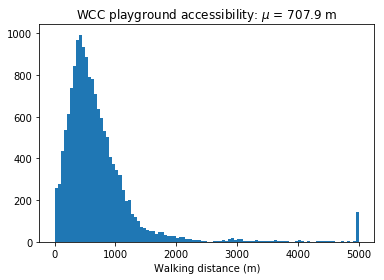
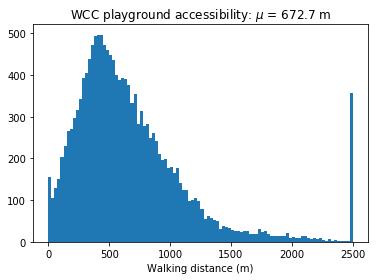
Adding more figures to clarify key steps in methdology.

diff --git a/_posts/2019-02-19-Impact-of-hills-on-walking-to-playgrounds-in-Wellington.md b/_posts/2019-02-19-Impact-of-hills-on-walking-to-playgrounds-in-Wellington.md
@@ -15,7 +15,7 @@ To do this analysis, we need to overcome some technical aspects:
 
 ## Datasets
 
-There are 3 key datasets used in this analysis:
+Three key datasets are used in this analysis:
 - *WCC playground locations*: downloaded as a zip file
 - *Suburb boundaries for Wellington*
     - StatsNZ 2013 Statistical Area 2 boundaries: downloaded as a geodatabase (gdb)
@@ -36,16 +36,15 @@ Getting the Wellington street network in a form suitable for accessibility analy
 
 The _pandana_ network above has edge weights in the default units of metres, which means that the accessibility analyses will also be in metres. We can post-hoc convert the distance units to travel time with an average walking speed of 5 km/h or, 83 m/minute if we want travel time in minutes.
 
-*Changes needed*
-- Convert 5000m threshold
-- Histogram of travel times?
-
 |Accessibility as distance | Accessibility as travel time |
 |---|---|
-|![png](../images/2019-02-19-Impact-of-hills-on-walking-to-playgrounds-in-Wellington/output_19_0.png)|![png](../images/2019-02-19-Impact-of-hills-on-walking-to-playgrounds-in-Wellington/output_34_0.png)|
+|![png](../images/2019-02-19-Impact-of-hills-on-walking-to-playgrounds-in-Wellington/output_48_0.png)|![png](../images/2019-02-19-Impact-of-hills-on-walking-to-playgrounds-in-Wellington/output_34_0.png)|
 
+The accessibility data can be extracted and plotted as a histogram. Here, we see that the average distance to a playground is 700 m, or an 8 minute walk.
 
-![png](../images/2019-02-19-Impact-of-hills-on-walking-to-playgrounds-in-Wellington/output_20_0.png)
+| Distance distribution | Time distribution |
+|---|---|
+|![png](../images/2019-02-19-Impact-of-hills-on-walking-to-playgrounds-in-Wellington/output_20_0.png)| ![png](../images/2019-02-19-Impact-of-hills-on-walking-to-playgrounds-in-Wellington/output_49_0.png)|
 
 ## Wellington street network: with elevation
 Elevation information can be retrieved with the Google Elevation API to enrich both the nodes and edges of the network. For the nodes, we can just get the elevation at a single location. Elevation at the connecting nodes of an edge can be used to derive the _inclination_.
@@ -94,7 +93,7 @@ Osmnx can download the Google street elevations and generate an edge weight base
 
 A [simple search](https://books.google.co.nz/books?id=SyulBQAAQBAJ&pg=PA160&lpg=PA160&dq=walking+speed+gradient+accessibility&source=bl&ots=iKmtg73TIV&sig=ACfU3U3N5CAAtqoA0QzfSpJubylfjneWtA&hl=en&sa=X&ved=2ahUKEwiqqeKj3YTgAhVQXn0KHdSFDWsQ6AEwAHoECAkQAQ#v=onepage&q=walking%20speed%20gradient%20accessibility&f=false) led me to [Naismith's Rule](https://en.wikipedia.org/wiki/Naismith%27s_rule) and then to [Tobler's Hiking Function](https://en.wikipedia.org/wiki/Tobler%27s_hiking_function) to calculate travel time as a function of distance and gradient.
 
-I've chosen to go with Tobler's without too much rationale other than its simple form. Tobler's hiking function for speed, $\nu$, is a shifted exponential with three parameters: $a$, $b$ and $c$ which give the fastest speed, speed retardation due to gradient and shift from zero respectively.
+I've chosen to go with Tobler's without too much rationale other than its simple form. Tobler's hiking function for speed, $$\nu$$, is a shifted exponential with three parameters: $$a$$, $$b$$ and $$c$$ which give the fastest speed, speed retardation due to gradient and shift from zero respectively.
 
 $$
 \nu = a\exp^{\left(-b.|slope~+~c|\right)}
@@ -128,6 +127,7 @@ For a travel time analysis, we need to split the components of the graph.
 |LINESTRING (174.7921165 -41.2280406, 174.79263...|-0.0475|0.0475|65.443|50|Truscott Avenue|1259077823|1259072943|
 
 #### Inverse graph
+
 |geometry|grade|grade_abs|length|maxspeed|name|u|v|
 |--- |--- |--- |--- |--- |--- |--- |--- |
 |LINESTRING (174.7934694 -41.2275193, 174.79300...|-0.1319|0.1319|66.800|50|Truscott Avenue|1259072929|1259077823|
